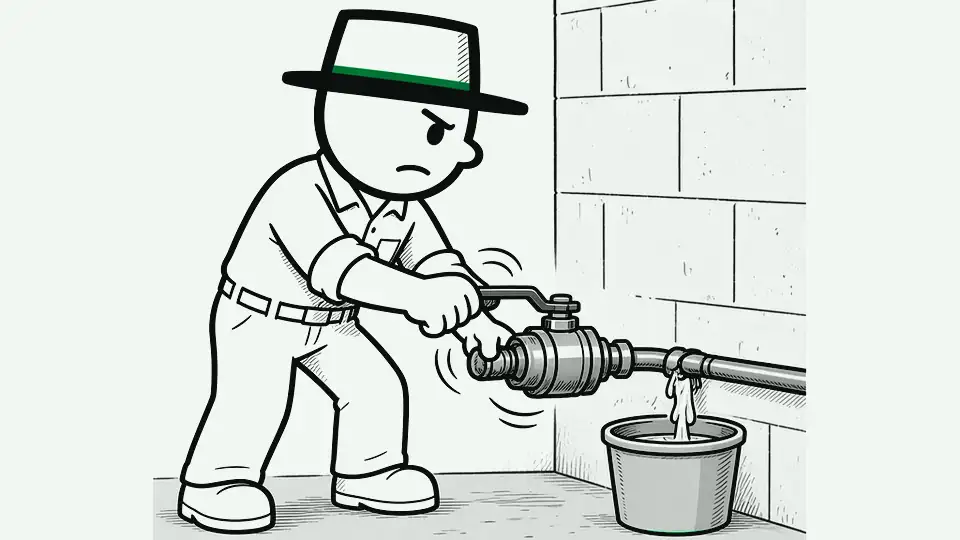
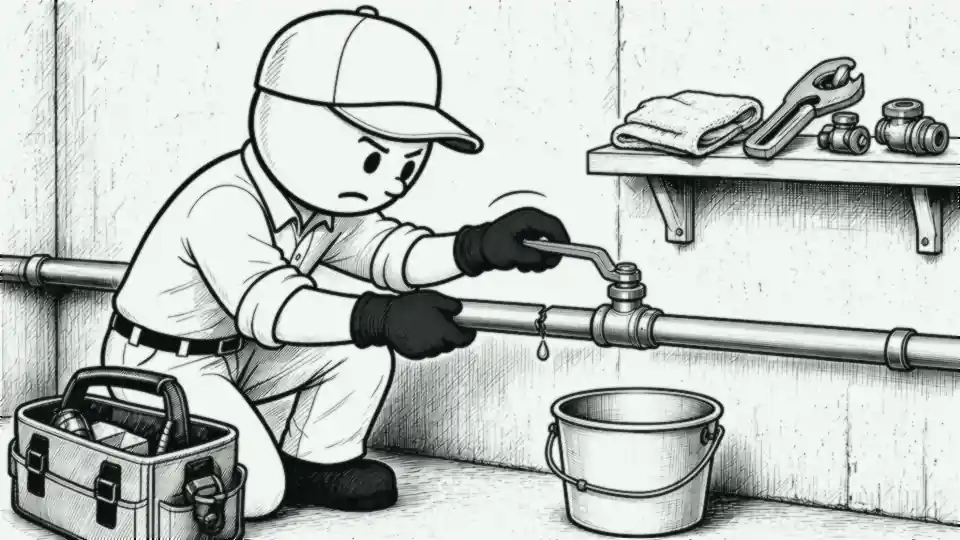
Scenes v7: burst as 7 locked-camera keyframes (tubing cutter, push-to-connect coupling, slow reopen, dry-towel check)

diff --git a/scenes/burst.js b/scenes/burst.js
@@ -1,1 +1,1 @@
-(window.EESceneData=window.EESceneData||{})["burst"]={"kind":"kf","w":960,"h":540,"title":"Burst pipe repaired","alt":"Main shutoff closed first, the split section cut out with a tubing cutter, a new coupling pressed on, and the main reopened slowly with a dry-towel leak check.","frames":[{"src":"scenes/kf/burst-1.webp?v=6","hold":560,"tw":{"x":-4},"o":[{"x":103,"y":103,"t":"word","text":"MAIN OFF","s":43},{"x":488,"y":262,"t":"effort","a":-30}]},{"src":"scenes/kf/burst-2.webp?v=6","hold":560,"tw":{"y":-6},"o":[{"x":525,"y":234,"t":"effort","a":-40}]},{"src":"scenes/kf/burst-3.webp?v=6","hold":560,"tw":{"x":5,"ms":240},"o":[{"x":394,"y":225,"t":"effort","a":-60}]},{"src":"scenes/kf/burst-4.webp?v=6","hold":560,"tw":{"sy":0.99,"ms":200}},{"src":"scenes/kf/burst-5.webp?v=6","hold":760,"tw":{"y":8,"r":-1,"ms":300},"o":[{"x":110,"y":270,"t":"check"}]}],"placeholder":false};
+(window.EESceneData=window.EESceneData||{})["burst"]={"kind":"kf","w":960,"h":540,"title":"Burst pipe repaired","alt":"He closes the ball valve first, clamps a tubing cutter on the split and spins it, sets the cutter on the floor and lifts out the cracked piece, pushes a push-to-connect repair coupling across the gap, opens the valve slowly, wraps a dry towel around the coupling to check for leaks, and tips his cap.","frames":[{"src":"scenes/kf/burst-1.webp?v=7","hold":460,"tw":{"x":-3},"o":[{"x":38,"y":84,"t":"word","text":"WATER OFF","s":38},{"x":548,"y":375,"t":"drips"}]},{"src":"scenes/kf/burst-2.webp?v=7","hold":460,"tw":{"y":-4},"o":[{"x":525,"y":188,"t":"effort","a":-40}]},{"src":"scenes/kf/burst-3.webp?v=7","hold":440,"tw":{"x":4,"ms":240}},{"src":"scenes/kf/burst-4.webp?v=7","hold":440,"tw":{"sy":0.99,"ms":200},"o":[{"x":488,"y":234,"t":"effort","a":-50}]},{"src":"scenes/kf/burst-5.webp?v=7","hold":460,"tw":{"y":-4},"o":[{"x":722,"y":236,"t":"word","text":"SLOWLY","s":32}]},{"src":"scenes/kf/burst-6.webp?v=7","hold":440,"tw":{"x":-4,"ms":240}},{"src":"scenes/kf/burst-7.webp?v=7","hold":1000,"tw":{"y":6,"r":-0.8,"ms":300},"o":[{"x":110,"y":100,"t":"check"}]}],"placeholder":false};
